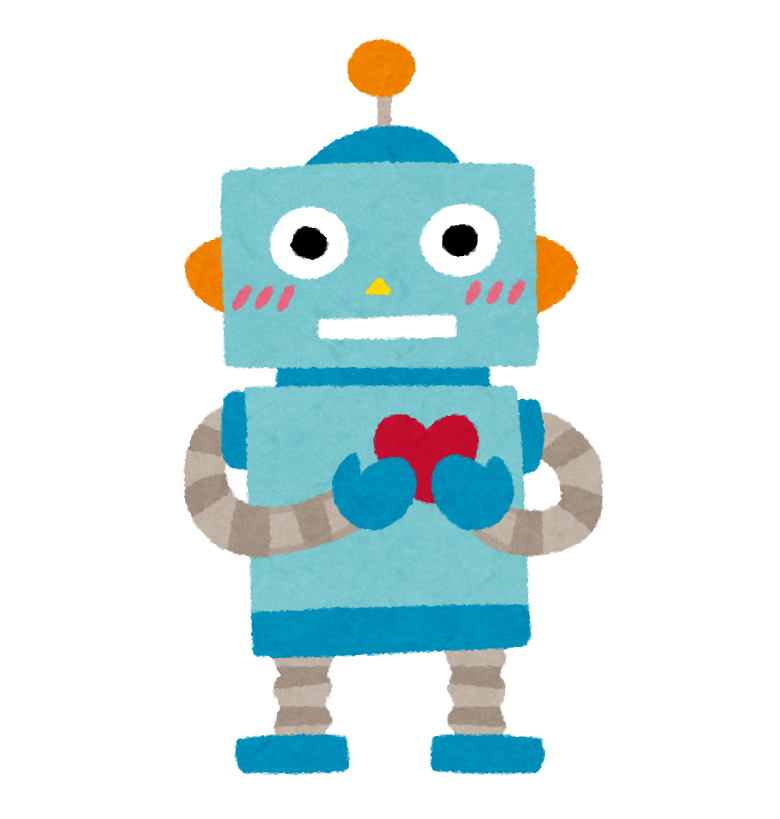
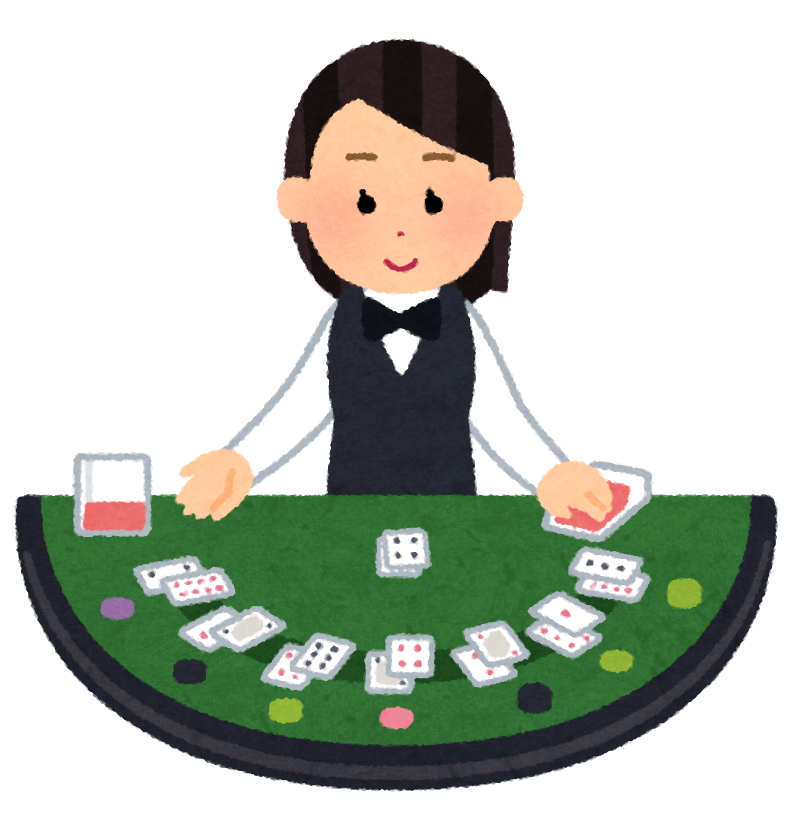
fix: showLoggedIn now calls newGame+newHand to start game, use correct ai_dealer.png

diff --git a/public/poker/index.html b/public/poker/index.html
@@ -966,6 +966,8 @@ function showLoggedIn(user) {
   document.getElementById('playerNameDisplay').textContent=user.username;
   document.getElementById('playerChips').textContent=user.chips || user.score || 1000;
   currentUser = user;
+  newGame(user.username);
+  newHand();
 }
 function enterGame() {
   document.getElementById('startScreen').style.display='none';